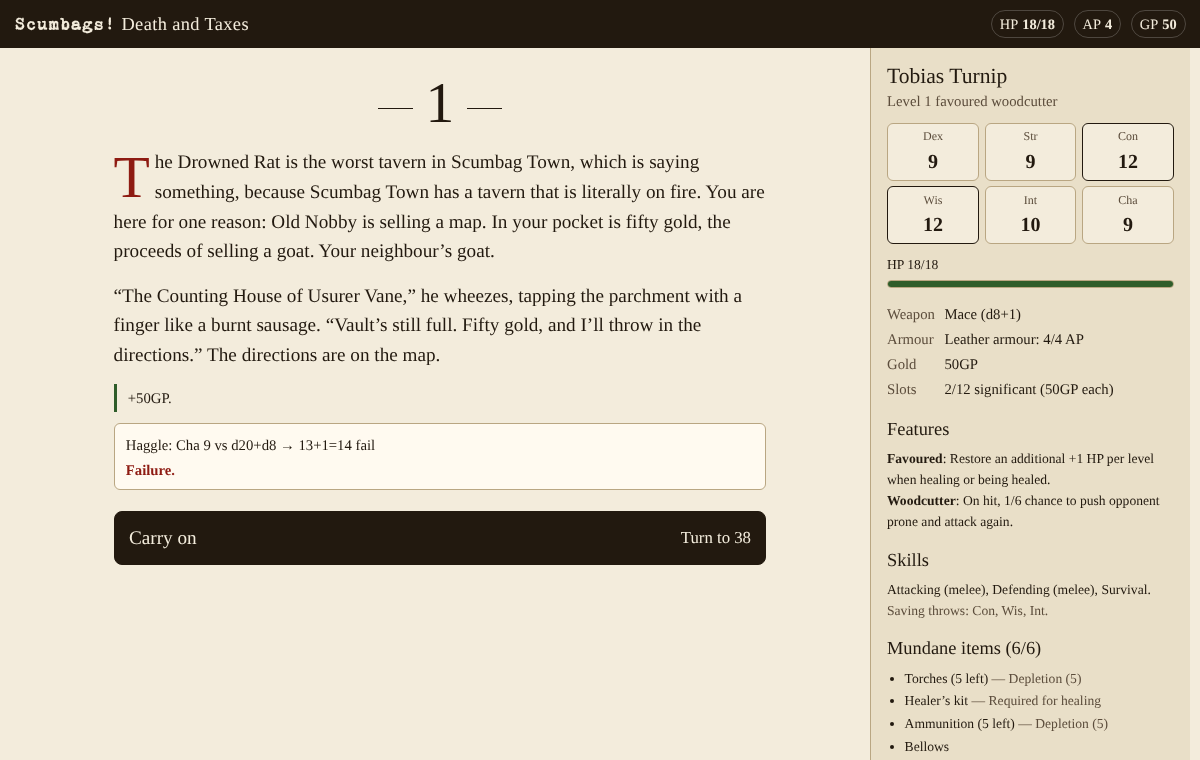
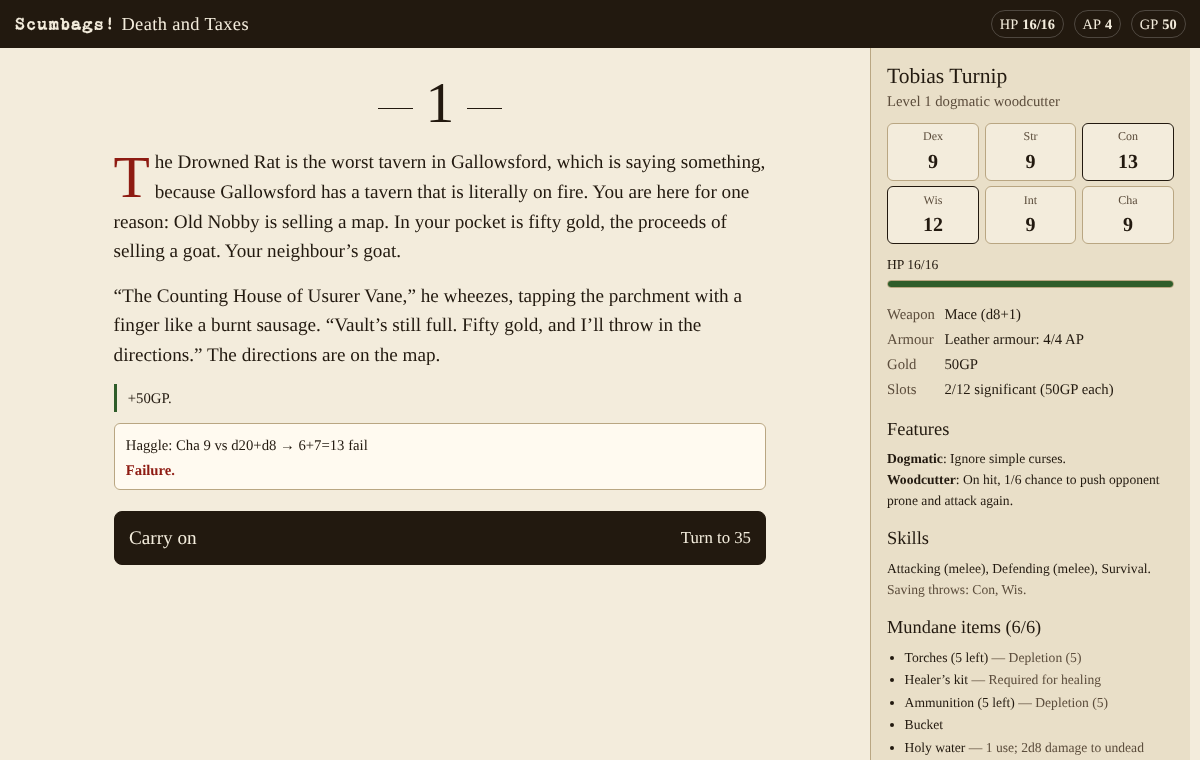
README: Final Demand, careers and write-ups, the spellbook, campaign tool; fresh screenshots
The job count no longer includes a locked secret adventure.

Claude-Session: https://claude.ai/code/session_012HSGc6qaJa2EpeotNauC4H

diff --git a/dist/gamebook.html b/dist/gamebook.html
@@ -157,7 +157,7 @@
   .banner { text-align: center; font-family: var(--display); font-size: 2rem; margin: 1.4rem 0 .4rem; }
   .banner.dead { color: var(--blood); }
 </style>
-<meta name="build" content="8b9f39df58cf">
+<meta name="build" content="f82e61976e61">
 </head>
 <body>
 <div id="app"></div>
@@ -175,7 +175,7 @@ return {  };
 };
 __defs["src/ui/app.js"] = function(){
 // The gamebook's user interface: plain DOM, re-rendered from game state after every action.
-const { buildAdventure, ADVENTURES, availableFor, revealedFor } = __req("src/adventure/index.js");
+const { buildAdventure, ADVENTURES, availableFor, revealedFor, totalFor } = __req("src/adventure/index.js");
 const { careerWriteUp } = __req("src/adventure/career.js");
 const { INN_PRICE, SHOP, weaponPrice, armourPrice, shieldPrice, restAtInn, sleepRough, restock, addMundane, dropMundane, buy, sellPrice, sell, weaponsFor, buyWeapon, buyArmour, buyShield } = __req("src/engine/town.js");
 const town = { INN_PRICE, SHOP, weaponPrice, armourPrice, shieldPrice, restAtInn, sleepRough, restock, addMundane, dropMundane, buy, sellPrice, sell, weaponsFor, buyWeapon, buyArmour, buyShield };
@@ -307,7 +307,7 @@ function titleScreen() {
         h('span', null, h('b', null, w.name), h('span', { class: 'note' }, `${w.title}. ${w.ending}`)))))),
     list.length > 0 && h('main', { class: 'page' }, h('h2', null, 'Survivors'),
       h('div', { class: 'opts' }, list.map((c) => h('button', { class: 'opt', onclick: () => { ui.char = c; ui.townMsg = ''; go('town'); } },
-        h('span', null, h('b', null, c.name), h('span', { class: 'note' }, `Level ${c.level} ${c.profession.toLowerCase()} · ${c.gold}GP · ${(c.done || []).length} of ${ADVENTURES.length} adventures done`)))))));
+        h('span', null, h('b', null, c.name), h('span', { class: 'note' }, `Level ${c.level} ${c.profession.toLowerCase()} · ${c.gold}GP · ${(c.done || []).length} of ${totalFor(c)} adventures done`)))))));
 }
 
 function charBar(c) {
@@ -356,7 +356,7 @@ function townScreen() {
       avail.length ? h('p', { class: 'small' }, 'Jobs for people with no scruples:') : h('p', { class: 'small' }, 'There’s nothing on the board for you. You’ve done it all. Retire, or find something worse to do.'),
       avail.map((a) => h('div', { class: 'card adv' }, h('h2', null, a.title), h('div', { class: 'muted small' }, `For a level ${a.levels} scumbag${overBy(c, a) ? `. You’re over-qualified: you’ll keep ${overBy(c, a) === 1 ? 'half' : `1/${2 ** overBy(c, a)}`} of the profit` : ''}`), h('p', null, a.blurb),
         h('button', { class: 'btn', onclick: () => startAdventure(a.id) }, 'Take the job'))),
-      h('p', { class: 'muted small' }, `${revealedFor(c).length} of ${ADVENTURES.length} adventures discovered. Finish jobs to hear about more.`)),
+      h('p', { class: 'muted small' }, `${revealedFor(c).length} of ${totalFor(c)} adventures discovered. Finish jobs to hear about more.`)),
     h('div', { class: 'card' }, h('h3', null, 'Retire'),
       ui.retireAsk
         ? [h('p', { class: 'small' }, `This ends ${c.name}’s career for good. You’ll get a write-up of everything they did, and they won’t be coming back.`),
@@ -759,6 +759,10 @@ function bandFor(c) {
 }
 /** A secret adventure only goes up on the board once its `unlock(c)` says so. */
 const unlocked = (c, a) => !a.unlock || a.unlock(c);
+/** How many adventures a scumbag knows exist: a locked secret doesn't count, so it stays secret. */
+function totalFor(c) {
+  return ADVENTURES.filter((a) => unlocked(c, a) || (c.done || []).includes(a.id)).length;
+}
 /** Adventures a scumbag can take on now: every one not done yet, in any band they have opened. */
 function availableFor(c) {
   const done = c.done || []; const band = bandFor(c);
@@ -784,7 +788,7 @@ function buildAdventure(id = ADVENTURES[0].id) {
   return (cache[id] = { ...meta, deathText, start: 'start', sections, numbers, count: order.length });
 }
 
-return { ADVENTURES, bandFor, availableFor, revealedFor, buildAdventure };
+return { ADVENTURES, bandFor, totalFor, availableFor, revealedFor, buildAdventure };
 };
 __defs["src/rules/dice.js"] = function(){
 // Dice and random numbers. All randomness goes through an Rng so games can be seeded and replayed.
@@ -10004,7 +10008,7 @@ return { SNOAD_CLUES_NEEDED, META, SECTIONS, DEATH_TEXT };
 };
 __defs["src/adventure/career.js"] = function(){
 // A scumbag's career, written up when they retire: a line for every job, from what they did in it.
-const { ADVENTURES } = __req("src/adventure/index.js");
+const { totalFor } = __req("src/adventure/index.js");
 const { pastFlag } = __req("src/engine/conditions.js");
 // One line per adventure, from the flags it ended with. p(flag) reads them; n(flag) reads counters.
 const LINES = {
@@ -10118,7 +10122,7 @@ function careerWriteUp(c, how, finale = 'final-demand') {
     title: `Level ${c.level} ${c.quality ? `${c.quality.toLowerCase()} ` : ''}${c.profession.toLowerCase()}${centaur ? ', reverse centaur' : ''}`,
     ending: centaur ? `${ending} Then Neville’s curse finally took.` : ending,
     lines,
-    tally: `${titles} job${titles === 1 ? '' : 's'} of ${ADVENTURES.length}. ${c.wasted ? `${c.wasted}GP squandered on pointless endeavours.` : 'Nothing squandered, somehow.'} ${how === 'died' ? 'Died' : 'Retired'} with ${c.gold}GP.`,
+    tally: `${titles} job${titles === 1 ? '' : 's'} of ${totalFor(c)}. ${c.wasted ? `${c.wasted}GP squandered on pointless endeavours.` : 'Nothing squandered, somehow.'} ${how === 'died' ? 'Died' : 'Retired'} with ${c.gold}GP.`,
     died: how === 'died',
     date: new Date().toLocaleDateString('en-GB', { day: 'numeric', month: 'long', year: 'numeric' }),
   };

diff --git a/src/ui/app.js b/src/ui/app.js
@@ -1,5 +1,5 @@
 // The gamebook's user interface: plain DOM, re-rendered from game state after every action.
-import { buildAdventure, ADVENTURES, availableFor, revealedFor } from '../adventure/index.js';
+import { buildAdventure, ADVENTURES, availableFor, revealedFor, totalFor } from '../adventure/index.js';
 import { careerWriteUp } from '../adventure/career.js';
 import { INN_PRICE, SHOP, weaponPrice, armourPrice, shieldPrice, restAtInn, sleepRough, restock, addMundane, dropMundane, buy, sellPrice, sell, weaponsFor, buyWeapon, buyArmour, buyShield } from '../engine/town.js';
 const town = { INN_PRICE, SHOP, weaponPrice, armourPrice, shieldPrice, restAtInn, sleepRough, restock, addMundane, dropMundane, buy, sellPrice, sell, weaponsFor, buyWeapon, buyArmour, buyShield };
@@ -132,7 +132,7 @@ function titleScreen() {
         h('span', null, h('b', null, w.name), h('span', { class: 'note' }, `${w.title}. ${w.ending}`)))))),
     list.length > 0 && h('main', { class: 'page' }, h('h2', null, 'Survivors'),
       h('div', { class: 'opts' }, list.map((c) => h('button', { class: 'opt', onclick: () => { ui.char = c; ui.townMsg = ''; go('town'); } },
-        h('span', null, h('b', null, c.name), h('span', { class: 'note' }, `Level ${c.level} ${c.profession.toLowerCase()} · ${c.gold}GP · ${(c.done || []).length} of ${ADVENTURES.length} adventures done`)))))));
+        h('span', null, h('b', null, c.name), h('span', { class: 'note' }, `Level ${c.level} ${c.profession.toLowerCase()} · ${c.gold}GP · ${(c.done || []).length} of ${totalFor(c)} adventures done`)))))));
 }
 
 function charBar(c) {
@@ -181,7 +181,7 @@ function townScreen() {
       avail.length ? h('p', { class: 'small' }, 'Jobs for people with no scruples:') : h('p', { class: 'small' }, 'There’s nothing on the board for you. You’ve done it all. Retire, or find something worse to do.'),
       avail.map((a) => h('div', { class: 'card adv' }, h('h2', null, a.title), h('div', { class: 'muted small' }, `For a level ${a.levels} scumbag${overBy(c, a) ? `. You’re over-qualified: you’ll keep ${overBy(c, a) === 1 ? 'half' : `1/${2 ** overBy(c, a)}`} of the profit` : ''}`), h('p', null, a.blurb),
         h('button', { class: 'btn', onclick: () => startAdventure(a.id) }, 'Take the job'))),
-      h('p', { class: 'muted small' }, `${revealedFor(c).length} of ${ADVENTURES.length} adventures discovered. Finish jobs to hear about more.`)),
+      h('p', { class: 'muted small' }, `${revealedFor(c).length} of ${totalFor(c)} adventures discovered. Finish jobs to hear about more.`)),
     h('div', { class: 'card' }, h('h3', null, 'Retire'),
       ui.retireAsk
         ? [h('p', { class: 'small' }, `This ends ${c.name}’s career for good. You’ll get a write-up of everything they did, and they won’t be coming back.`),

diff --git a/src/adventure/career.js b/src/adventure/career.js
@@ -1,5 +1,5 @@
 // A scumbag's career, written up when they retire: a line for every job, from what they did in it.
-import { ADVENTURES } from './index.js';
+import { totalFor } from './index.js';
 import { pastFlag } from '../engine/conditions.js';
 
 // One line per adventure, from the flags it ended with. p(flag) reads them; n(flag) reads counters.
@@ -114,7 +114,7 @@ export function careerWriteUp(c, how, finale = 'final-demand') {
     title: `Level ${c.level} ${c.quality ? `${c.quality.toLowerCase()} ` : ''}${c.profession.toLowerCase()}${centaur ? ', reverse centaur' : ''}`,
     ending: centaur ? `${ending} Then Neville’s curse finally took.` : ending,
     lines,
-    tally: `${titles} job${titles === 1 ? '' : 's'} of ${ADVENTURES.length}. ${c.wasted ? `${c.wasted}GP squandered on pointless endeavours.` : 'Nothing squandered, somehow.'} ${how === 'died' ? 'Died' : 'Retired'} with ${c.gold}GP.`,
+    tally: `${titles} job${titles === 1 ? '' : 's'} of ${totalFor(c)}. ${c.wasted ? `${c.wasted}GP squandered on pointless endeavours.` : 'Nothing squandered, somehow.'} ${how === 'died' ? 'Died' : 'Retired'} with ${c.gold}GP.`,
     died: how === 'died',
     date: new Date().toLocaleDateString('en-GB', { day: 'numeric', month: 'long', year: 'numeric' }),
   };

diff --git a/src/adventure/index.js b/src/adventure/index.js
@@ -42,6 +42,10 @@ export function bandFor(c) {
 }
 /** A secret adventure only goes up on the board once its `unlock(c)` says so. */
 const unlocked = (c, a) => !a.unlock || a.unlock(c);
+/** How many adventures a scumbag knows exist: a locked secret doesn't count, so it stays secret. */
+export function totalFor(c) {
+  return ADVENTURES.filter((a) => unlocked(c, a) || (c.done || []).includes(a.id)).length;
+}
 /** Adventures a scumbag can take on now: every one not done yet, in any band they have opened. */
 export function availableFor(c) {
   const done = c.done || []; const band = bandFor(c);

diff --git a/README.md b/README.md
@@ -27,7 +27,8 @@ things get dicey. Fights, light, spells, loot and levelling all follow the Scumb
   defend with Str or Dex against the monster's die. Armour soaks damage before your HP.
 - Dark places use up torches and oil. Every 50 gold takes up a significant item slot.
 - Magicians get a spell slot at every level and the rulebook's whole spell list, from Divine light
-  to Wish. When a divine spell goes critically wrong, your god casts the opposite one instead.
+  to Wish, in and out of fights. When a divine spell goes critically wrong, your god casts the
+  opposite one instead.
 - You level up by squandering 200 gold on a pointless endeavour when you get home.
 
 Nearly everything in your pack is useful somewhere. A rope, a rat or a pot of glue will often
@@ -35,16 +36,27 @@ get you past things a sword won't.
 
 ![Playing an adventure](docs/play.png)
 
+In a fight, every action is a button. Spells live in a spellbook you open when you need it, with
+each one marked with what it will hit, or why it's a bad idea.
+
+![A fight, with the spellbook open](docs/fight.png)
+
 ## Adventures
 
 Each adventure is a short, self-contained job. Survivors return to Gallowsford, where they can
 heal, restock, buy and sell, and squander their takings. Finishing any job in a level band
 reveals every job in the next band on the notice board, so after the first job there's always a
 choice. Nobody gets to do the same job twice, and later adventures remember what you did in
-earlier ones. Scumbags who are over-qualified for a job get paid less for it, so going back for
-the easy ones won't make you rich. Finish a job at the top level and one last job turns up, where
-the career ends; retire in town before then if you'd rather. Retired scumbags get a write-up of
-everything they did.
+earlier ones: the people you robbed, rescued or annoyed turn up again. Scumbags who are
+over-qualified for a job get paid less for it, so going back for the easy ones won't make you rich.
+
+![The notice board in Gallowsford](docs/board.png)
+
+Finish a job at the top level and the last job turns up, where the career ends, one way or
+another. Scumbags who pay attention may find it isn't the only one. Retire in town before then if
+you'd rather. Either way, you get a write-up of everything you did, kept on the title page.
+
+![A retired scumbag's write-up](docs/writeup.png)
 
 | Band | Adventure | Level | The job |
 |---|---|---|---|
@@ -76,6 +88,7 @@ everything they did.
 | 10 | A Perfectly Standard Dragon | 9–10 | Deal with a dragon that is following procedure |
 | 10 | Death Takes a Holiday | 9–10 | Find Death's stolen scythe at the seaside |
 | 10 | Higher Still | 9–10 | Rescue Lord Longshanks from the cloud giants above his spire |
+| 11 | Final Demand | 10 | Death and the taxman come to collect, back where it all began |
 
 Sections are shuffled the traditional way: the start is 1 and the way home is last. Progress
 and surviving scumbags are saved in your browser.
@@ -91,10 +104,11 @@ Needs Node 20 or later. There are no dependencies to install.
     npm run simulate   # thousands of bot playthroughs: survival rates and deadly sections
     npm run duels      # every fight in the book, from full health, by random bots
 
-Two more tools help when writing:
+A few more tools help with writing and balance:
 
     node tools/affordances.mjs   # which items, spells and professions each adventure gives a use to
     node tools/states.mjs <id>   # the flags that may or may not be set on arrival at each section
+    node tools/campaign.mjs      # whole careers played by bots: levels, gold and deaths by band
 
 | Path | What's in it |
 |---|---|
@@ -106,6 +120,7 @@ Two more tools help when writing:
 | `tools/` | Bundler, dev server, checker, bots and writing aids |
 | `docs/ADAPTATION.md` | Where and why the gamebook departs from the tabletop rules |
 | `docs/WRITING.md` | How to write sections and adventures |
+| `rulebook/` | The tabletop rulebook, as a PDF |
 
 Pushing to `main` runs the tests and publishes the built gamebook to GitHub Pages.
 
